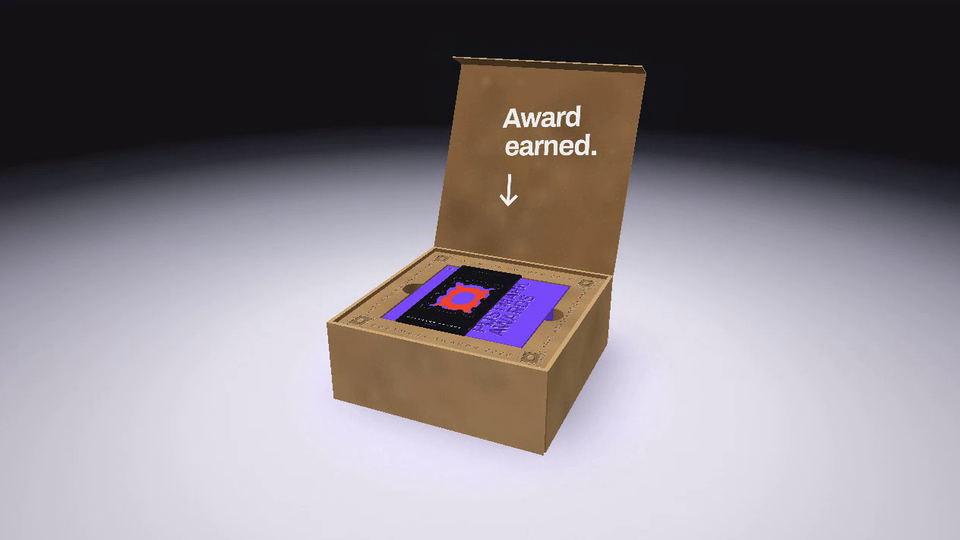
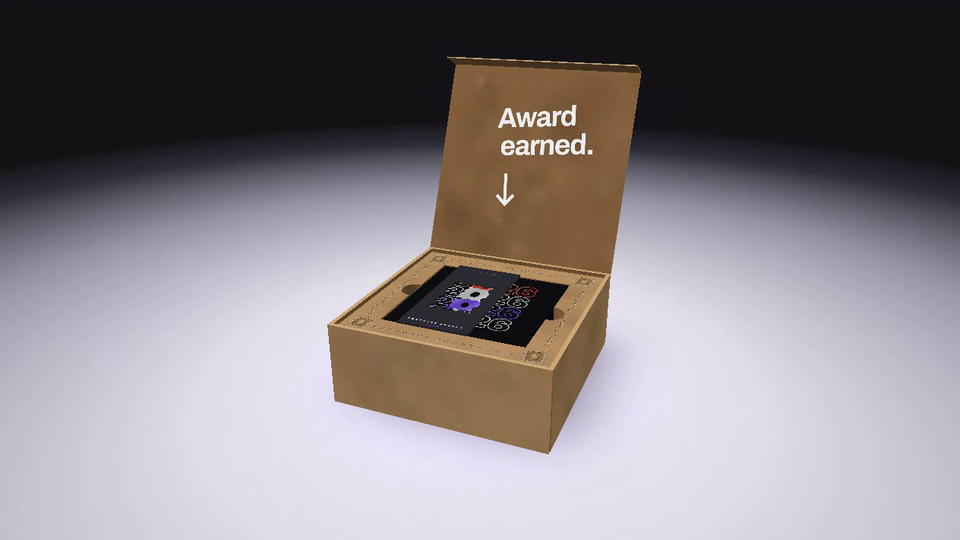
Postmark Awards Unboxing: glass porcupine award, black box with debossed foil 2026 lid, no outline around the sleeve die cut
Claude-Session: https://claude.ai/code/session_01AHeBdvvqk7JQpSQJTSRnYu

diff --git a/postmark-awards-unboxing/index.html b/postmark-awards-unboxing/index.html
@@ -79,7 +79,7 @@ const easeOut = (u) => 1 - Math.pow(1 - cl(u, 0, 1), 3);
 const ph = (P, a, b, f = ease) => f(cl((P - a) / (b - a), 0, 1));
 const reduce = matchMedia('(prefers-reduced-motion: reduce)').matches;
 const SANS = '"Archivo","Helvetica Neue",Helvetica,Arial,sans-serif', BLACKFACE = '"Archivo Black","Arial Black","Helvetica Neue",Arial,sans-serif';
-const PURPLE = [122, 75, 255], RED = [242, 68, 46], INK = [20, 20, 24];
+const PURPLE = [122, 75, 255], RED = [242, 68, 46], INK = [20, 20, 24], BOXK = [14, 14, 17], SLV = [44, 44, 51];
 const KRAFT = [186, 146, 100], KRAFT_D = [140, 103, 66], KRAFT_L = [208, 172, 124];
 
 /* ---------- tiny affine transforms: chain(A, B, C) applies C first ---------- */
@@ -102,7 +102,8 @@ let CAM = [0, 500, 1500], GLOW = { p: [0, 100, 450], k: 0 };
 const shade = (n) => Math.min(1, 0.5 + 0.58 * Math.max(0, dot(n, L1)) + 0.18 * Math.max(0, dot(n, L2)));
 
 /* ---------- per frame draw lists ---------- */
-let FLAT = [], TEXQ = [], OVF = [], OVG = [];
+let FLAT = [], TEXQ = [], OVF = [], OVG = [], GLS = [], GLT = [];
+function glassTri(M, pts, col, a) { const w = wp(M, pts), s = 0.62 + 0.38 * shade(facing(w)); GLS.push(w, col[0] * s, col[1] * s, col[2] * s, a); }
 const wp = (M, pts) => pts.map((p) => xf(M, p));
 function facing(w) { let n = nrm(crs(sub(w[1], w[0]), sub(w[2], w[0]))); if (dot(n, sub(CAM, w[0])) < 0) n = [-n[0], -n[1], -n[2]]; return n; }
 function F(M, pts, col, amt = 1) { // flat colour polygon, fan from pts[0]
@@ -181,13 +182,23 @@ const MW = 260, MH = 200, WT = 10;                 // mailer: half width/depth, 
 const INS_TOP = 190, REC_FLOOR = 96, REC_H = 175;  // debossed insert: top, recess floor, recess half size
 const BOXH = 166, LIDH = 171, BASE_H = 74, LID_BOT = 44, LID_TOP = 88; // award box: base half, lid half, heights
 const SL_T = 5, SL_XA = -130, SL_XB = 40;           // slip sleeve: thickness, x range on the box
-const AW = 0.84, AR = 105, AT = 16;                // award: stamp aspect, half height, thickness
+const AT = 14, PK = 0.29;                          // award: glass thickness, scale of the traced mascot
 const CRAD_TOP = 70, POCKET = 14;                  // black cradle inside the base, pocket depth
 
-const POCK = pocketPoly(AW, AR, 1.05, 0.26, 24), POCK_TOP = triangulate(rectPts(160, 160), POCK), POCK_FLOOR = triangulate(POCK);
+/* the brand mascot, traced (from the Postmark Awards brand visuals): body with its quills, the quill tips, and the stamps stuck on them (x, y, half width, half height, rotation, 0 purple / 1 red); y down, 1000 units wide */
+const PORC_BODY = [33,679,136,701,138,703,167,708,169,710,179,710,181,712,190,713,204,717,222,720,230,723,230,725,204,730,204,731,167,739,156,743,121,751,120,752,111,753,109,755,104,755,33,773,341,773,343,775,342,791,345,829,351,839,360,843,422,843,437,838,446,827,448,819,445,811,425,809,392,809,386,806,379,799,377,789,379,777,382,773,387,773,566,773,567,774,567,813,569,828,573,836,584,843,646,843,656,841,666,835,672,822,671,814,664,810,615,809,610,806,603,799,602,791,603,780,606,773,969,773,794,708,795,705,802,703,939,622,796,643,787,643,785,645,766,647,762,647,926,521,872,538,871,540,858,543,857,545,830,553,829,554,750,580,750,579,766,559,780,547,810,512,801,484,799,483,755,511,723,533,713,538,709,542,699,548,697,548,834,306,660,490,659,487,663,479,666,466,668,465,671,454,675,446,676,440,677,439,701,368,717,326,714,322,701,311,699,311,681,338,676,348,671,352,671,355,603,455,603,447,615,345,608,344,595,339,579,326,576,330,571,346,569,347,560,370,559,376,555,383,542,418,540,419,540,422,535,435,534,436,533,442,530,444,529,443,528,422,526,418,525,396,524,394,520,353,517,352,471,359,463,407,459,423,458,436,456,447,454,448,450,437,449,437,441,411,437,402,435,391,425,369,411,323,409,322,408,317,366,195,376,473,374,474,372,472,372,468,370,467,286,298,272,298,277,325,279,331,279,337,281,338,282,347,283,348,284,358,291,382,291,388,293,389,293,398,315,490,314,492,220,394,204,421,209,427,214,440,216,443,225,464,230,470,237,489,239,490,261,535,260,537,101,444,241,601,240,603,205,590,165,577,169,591,169,598,153,601,146,605,206,654];
+const PORC_STEMS = [[190,611,188,611,181,613,170,616,162,617,162,617,160,616,148,607,97,565,72,544,72,543,93,550,134,564,178,580,183,582,184,584,185,587,190,609],[232,408,230,413,225,421,218,434,214,440,214,440,179,369,167,343,162,334,162,332,168,338,232,406],[308,342,305,347,304,348,299,345,283,336,279,333,277,325,272,306,261,254,261,249,262,251,264,254,290,305,306,337,308,341],[522,369,520,370,473,377,468,377,468,370,489,249,498,196,501,182,503,175,504,188,507,212,521,356],[634,191,633,201,614,358,613,359,613,360,572,364,563,364,563,363,564,359,629,193,634,184],[743,250,740,259,735,274,717,326,713,338,712,338,710,337,705,332,694,323,692,322,692,321,695,317,732,261,740,249,742,248,743,248],[894,421,887,429,803,521,798,526,797,524,792,510,786,492,786,491,788,490,879,429,893,420,894,420]];
+const PORC_STAMPS = [[99,571,66,45,-0.227,0],[169,354,58,68,-1.065,1],[256,227,66,89,2.094,0],[495,294,58,65,-0.140,1],[610,260,56,86,-0.087,0],[755,263,70,53,-0.873,1],[875,444,84,59,-0.332,0]];
 const REC = recessPoly(REC_H, REC_H, 34), REC_TOP = triangulate(rectPts(250, 250), REC), REC_FLOOR_T = triangulate(REC);
 const WIN_HH = 80, WIN = stampPoly(0.7).map((p) => [p[0] * WIN_HH, p[1] * WIN_HH]), WIN_TOP = triangulate(rectPts((SL_XB - SL_XA) / 2, 173), WIN);
-const AWARD_PTS = stampPoly(AW).map((p) => [p[0] * AR, p[1] * AR]);
+const porcP = (x, y) => [(x - 501) * PK, -(y - 490) * PK];
+const pairs = (a) => { const o = []; for (let i = 0; i < a.length; i += 2) o.push(porcP(a[i], a[i + 1])); return o; };
+const BODY_P = pairs(PORC_BODY), BODY_T = triangulate(BODY_P);
+const STEM_P = PORC_STEMS.map(pairs), STEM_T = STEM_P.map((p) => triangulate(p));
+const STAMP_P = PORC_STAMPS.map(([x, y, hw, hh, rot, c]) => { const cs = Math.cos(rot), sn = Math.sin(rot), p = stampPoly(hw / hh, 0.62, 0.12, 4).map(([px, py]) => { const X = px * hh, Y = -py * hh; return porcP(x + X * cs - Y * sn, y + X * sn + Y * cs); }); return { p, t: triangulate(p), c: c ? RED : PURPLE }; });
+const ellipseP = (cx, cy, rx, ry) => Array.from({ length: 28 }, (_, i) => porcP(cx + rx * Math.cos(TAU * i / 28), cy + ry * Math.sin(TAU * i / 28)));
+const EYE_P = ellipseP(648, 692, 98, 38), PUPIL_P = ellipseP(673, 707, 24, 15);
+const POCK = BODY_P.map((p) => [p[0] * 1.045, p[1] * 1.045]), POCK_TOP = triangulate(rectPts(160, 160), POCK), POCK_FLOOR = triangulate(POCK);
 
 /* ============================================================================================
    Textures: flat colour, a little grain, tone on tone deboss. Built once with the brand fonts.
@@ -235,7 +246,7 @@ function arcText(c, str, cx, cy, r, a0, spacing) { c.save(); c.translate(cx, cy)
 function buildTextures() {
   /* kraft: outside, inside (darker, corrugation showing), the mailer lid underside with its printed message */
   T.kraft = kraftTex(1024, 1024, KRAFT, 11, 0); T.kraftD = kraftTex(1024, 1024, KRAFT_D, 12, 0);
-  T.purpleSide = flatTex(512, 128, PURPLE, 3, 900); T.ink = flatTex(128, 128, INK, 5, 800);
+  T.purpleSide = flatTex(512, 128, BOXK, 3, 1100); T.ink = flatTex(128, 128, INK, 5, 800);
 
   { // mailer lid, outside: kraft with a worn black postmark and a stamp sticker
     const g = kraftTex(1024, 1024, KRAFT, 21, 0), c = g.drawingContext, r = rng(9);
@@ -267,24 +278,28 @@ function buildTextures() {
     };
     deboss(c, W, W, shape, 3, 1.15); T.insert = g;
   }
-  { // award box lid: purple card, tone on tone deboss, red ring stamp that sits in the sleeve window
-    const W = 1026, S = 3, g = G(W, W), c = g.drawingContext, px = (x) => (x + 171) * S, pz = (z) => (z + 171) * S;
-    c.fillStyle = 'rgb(' + PURPLE + ')'; c.fillRect(0, 0, W, W); grain(c, W, W, 9000, 7, 0.09);
-    ringShape(c, px(-45), pz(0), 66 * S, '#F2442E', 0.7, 1.3);
-    const shape = (ctx, col) => {
-      ctx.save(); ctx.translate(px(105), pz(0)); ctx.rotate(-PI / 2); ctx.translate(-pz(0) + 0, 0);
-      ctx.restore();
-      ctx.save(); ctx.translate(px(108), pz(0) + 0); ctx.rotate(-PI / 2); // text reads upward along the right strip, like the reference
-      const fit = 292 * S; ctx.translate(-fit / 2, -34 * S); logoBlock(ctx, 0, 0, fit, col); ctx.restore();
-      ctx.fillStyle = col; ctx.font = '700 ' + 13 * S + 'px ' + SANS; ctx.letterSpacing = '1px'; ctx.textBaseline = 'alphabetic'; ctx.fillText('2026', px(-166), pz(-150));
-    };
-    deboss(c, W, W, shape, 3, 1.4); T.lid = g;
+  { // award box lid: soft black card with the stacked 2026 debossed into it, the outlines and the stamp zeros in metallic foil
+    const W = 1026, k = W / 1000, g = G(W, W), c = g.drawingContext, ch = 186 * k, y0 = (W - ch * 4) / 2, GAP = 12 * k, ZW = 196 * k, DIG = ['2', '0', '2', '6'];
+    const FOIL = [[242, 68, 46], [232, 232, 240], [122, 75, 255], [232, 232, 240]], TILT = [-0.2, 0.15, -0.1, 0.22], KINDS = [[0.84, 1], [1, 1], [1, 0.86], [0.7, 1]];
+    c.fillStyle = 'rgb(' + BOXK + ')'; c.fillRect(0, 0, W, W); grain(c, W, W, 9000, 7, 0.05);
+    c.font = '400 ' + 240 * k + 'px ' + BLACKFACE;
+    const ws = DIG.map((d) => { if (d === '0') return ZW; const m = c.measureText(d); return m.actualBoundingBoxLeft + m.actualBoundingBoxRight; }), xs = []; let acc = (W - (ws.reduce((a, b) => a + b, 0) + GAP * 3)) / 2; ws.forEach((w) => { xs.push(acc + w / 2); acc += w + GAP; });
+    const row = (ctx, r, col) => { const cy = y0 + r * ch + ch / 2; ctx.font = '400 ' + 240 * k + 'px ' + BLACKFACE; ctx.lineWidth = 8 * k; ctx.lineJoin = 'round'; ctx.strokeStyle = ctx.fillStyle = col;
+      DIG.forEach((d, i) => { if (d === '0') { const [aw, ah] = KINDS[r]; ringShape(ctx, xs[i], cy, 104 * k * ah, col, aw / ah, 1, TILT[r]); } else { const mm = ctx.measureText(d), w = mm.actualBoundingBoxLeft + mm.actualBoundingBoxRight, h = mm.actualBoundingBoxAscent; ctx.strokeText(d, xs[i] - w / 2 + mm.actualBoundingBoxLeft, cy + h / 2); } }); };
+    deboss(c, W, W, (ctx, col) => { for (let r = 0; r < 4; r++) row(ctx, r, col); }, 3, 1.9);
+    for (let r = 0; r < 4; r++) { // foil: the row's colour with bands of light and dark across it, so it reads as metal
+      const rc = cv2(W, W), rx = rc.getContext('2d'), fc = FOIL[r]; row(rx, r, 'rgb(' + fc + ')'); rx.globalCompositeOperation = 'source-atop';
+      const top = y0 + r * ch, gr = rx.createLinearGradient(W * 0.1, top - ch * 0.4, W * 0.9, top + ch * 1.4);
+      [[0, 'rgba(0,0,0,.42)'], [0.22, 'rgba(255,255,255,.62)'], [0.4, 'rgba(0,0,0,.25)'], [0.58, 'rgba(255,255,255,.5)'], [0.78, 'rgba(0,0,0,.3)'], [1, 'rgba(255,255,255,.35)']].forEach(([p, col]) => gr.addColorStop(p, col));
+      rx.fillStyle = gr; rx.fillRect(0, 0, W, W); const rg = rng(31 + r); for (let i = 0; i < 1500; i++) { rx.fillStyle = rg() < 0.5 ? 'rgba(255,255,255,.35)' : 'rgba(0,0,0,.3)'; rx.fillRect(rg() * W, top + rg() * ch, 1 + rg() * 2, 1); }
+      c.drawImage(rc, 0, 0); }
+    T.lid = g;
   }
   { // slip sleeve: matte black die-cut card. The window is a real hole; the deboss frames it
     const w = 512, h = 1040, S = 3, g = G(w, h), c = g.drawingContext;
-    c.fillStyle = 'rgb(' + INK + ')'; c.fillRect(0, 0, w, h); grain(c, w, h, 2200, 17, 0.035);
+    c.fillStyle = 'rgb(' + SLV + ')'; c.fillRect(0, 0, w, h); grain(c, w, h, 2200, 17, 0.035);
     const cx = 85 * S, cz = 173 * S, shape = (ctx, col) => {
-      ctx.strokeStyle = col; ctx.fillStyle = col; ctx.lineWidth = 3.2; ctx.beginPath(); stampPath(ctx, stampPoly(0.7), cx, cz, 96 * S); ctx.stroke();
+      ctx.fillStyle = col;
       ctx.font = '700 ' + 6.5 * S + 'px ' + SANS; ctx.letterSpacing = 3 * S + 'px'; ctx.textAlign = 'center'; ctx.fillText('SLIDE TO OPEN', cx, 24 * S); ctx.fillText('←', cx, 38 * S);
     };
     deboss(c, w, h, shape, 2.2, 1.1);
@@ -293,21 +308,13 @@ function buildTextures() {
   }
   { // sleeve front: printed white, with the stamp O in red
     const w = 512, h = 300, g = G(w, h), c = g.drawingContext;
-    c.fillStyle = 'rgb(' + INK + ')'; c.fillRect(0, 0, w, h); grain(c, w, h, 1200, 19, 0.035);
+    c.fillStyle = 'rgb(' + SLV + ')'; c.fillRect(0, 0, w, h); grain(c, w, h, 1200, 19, 0.035);
     c.fillStyle = '#fff'; logoBlock(c, 42, 144, w - 84, '#fff'); ringShape(c, 456, 54, 22, '#F2442E', 0.84, 1.2);
     c.fillStyle = '#7A4BFF'; c.font = '700 40px ' + SANS; c.letterSpacing = '2px'; c.fillText('2026', 42, 244);
     T.sleeveFront = g;
   }
-  { // the award: white stamp, red O, black wordmark, purple year, acrylic gloss
-    const w = 424, h = 504, g = G(w, h), c = g.drawingContext, cx = w / 2;
-    c.fillStyle = '#F7F4EE'; c.fillRect(0, 0, w, h); grain(c, w, h, 2200, 23, 0.04);
-    c.strokeStyle = '#0B0B0B'; c.lineWidth = 3; c.beginPath(); stampPath(c, stampPoly(0.84).map((p) => [p[0] * 0.9, p[1] * 0.9]), cx, h / 2, h / 2 - 2); c.stroke();
-    ringShape(c, cx, 190, 100, '#F2442E', 0.84, 1.18);
-    c.fillStyle = '#0B0B0B'; c.font = '700 60px ' + SANS; c.letterSpacing = '-2px'; c.textAlign = 'center'; c.fillText('POSTMARK', cx, 366); c.fillText('AWARDS', cx, 424);
-    c.fillStyle = '#7A4BFF'; c.font = '400 38px ' + BLACKFACE; c.letterSpacing = '4px'; c.fillText('2026', cx, 472);
-    const gl = c.createLinearGradient(0, 0, w, h * 0.7); gl.addColorStop(0, 'rgba(255,255,255,.55)'); gl.addColorStop(0.32, 'rgba(255,255,255,.12)'); gl.addColorStop(0.34, 'rgba(255,255,255,0)'); c.fillStyle = gl; c.fillRect(0, 0, w, h);
-    T.award = g;
-  }
+  { const g = G(256, 256), c = g.drawingContext, gr = c.createLinearGradient(0, 0, 256, 190);
+    [[0, 0], [0.18, 0], [0.26, 0.5], [0.34, 0], [0.46, 0], [0.5, 0.22], [0.56, 0], [1, 0]].forEach(([p, a]) => gr.addColorStop(p, 'rgba(255,255,255,' + a + ')')); c.fillStyle = gr; c.fillRect(0, 0, 256, 256); T.shine = g; }
   /* light: soft shadows, glows, a four point sparkle, the studio floor */
   const radial = (s, rgb, aIn, aOut, pw = 1.6) => { const g = G(s, s), c = g.drawingContext; for (let r = s / 2; r > 0; r -= 1) { const k = 1 - r / (s / 2); c.fillStyle = 'rgba(' + rgb + ',' + (aOut + (aIn - aOut) * Math.pow(k, pw)) / 255 + ')'; c.beginPath(); c.arc(s / 2, s / 2, r, 0, TAU); c.fill(); } return g; };
   T.shRad = radial(256, '0,0,0', 255, 0, 1.3); T.halo = radial(256, '170,120,255', 255, 0, 1.6); T.haloW = radial(256, '255,255,255', 255, 0, 2.2);
@@ -332,7 +339,7 @@ function pose(P) {
   o.sx = SLIDE * ph(P, 0.54, 0.64);
   const lift = ph(P, 0.62, 0.72), side = ph(P, 0.68, 0.80), down = ph(P, 0.78, 0.90);
   o.lx = LID_X * side; o.ly = 200 * lift - 249 * down; o.lt = 0.3 * Math.sin(PI * ph(P, 0.62, 0.92)) * (side > 0 ? 1 : 0.4);
-  o.up = ph(P, 0.70, 0.88); o.tilt = ph(P, 0.74, 0.90) * 62 * PI / 180; o.hold = ph(P, 0.88, 1.0);
+  o.up = ph(P, 0.70, 0.88); o.tilt = ph(P, 0.74, 0.90) * 72 * PI / 180; o.hold = ph(P, 0.88, 1.0);
   return o;
 }
 let clock = 0, userAngle = 0, userElev = 0, userZoom = 0, lastInput = -99;
@@ -347,7 +354,7 @@ const STAGES = [['01', 'The mailer', 0.0], ['02', 'Lid opens', 0.15], ['03', 'Bo
 
 function drawScene(P, t) {
   const o = pose(P), BM = TR(o.bx, o.by, o.bz);
-  FLAT = []; TEXQ = []; OVF = []; OVG = [];
+  FLAT = []; TEXQ = []; OVF = []; OVG = []; GLS = []; GLT = [];
   const awardCenter = xf(chain(BM, TR(0, CRAD_TOP - POCKET + AT / 2 + 270 * o.up, 0)), [0, 0, 0]);
   GLOW = { p: [awardCenter[0], awardCenter[1], awardCenter[2]], k: 0.9 * o.up * (0.88 + 0.12 * Math.sin(t * 2)) };
 
@@ -385,38 +392,50 @@ function drawScene(P, t) {
   }
 
   /* ----- the award box ----- */
-  const purple = TX(T.purpleSide, 0, 0, 1, 1), base = (x0, z0, x1, z1, outer, inner) => cub(BM, x0, 0, z0, x1, BASE_H, z1, { [outer]: purple, [inner]: INK, py: PURPLE });
+  const purple = TX(T.purpleSide, 0, 0, 1, 1), base = (x0, z0, x1, z1, outer, inner) => cub(BM, x0, 0, z0, x1, BASE_H, z1, { [outer]: purple, [inner]: INK, py: [34, 34, 40] });
   base(-BOXH, BOXH - 6, BOXH, BOXH, 'pz', 'nz'); base(-BOXH, -BOXH, BOXH, -BOXH + 6, 'nz', 'pz'); base(-BOXH, -BOXH + 6, -BOXH + 6, BOXH - 6, 'nx', 'px'); base(BOXH - 6, -BOXH + 6, BOXH, BOXH - 6, 'px', 'nx');
   { // black cradle: a real pocket in the shape of the award, with a thumb scoop; the ribbon pull lies under the award
     const top = CRAD_TOP, fl = CRAD_TOP - POCKET, pt = (p, y) => [p[0], y, -p[1]];
     POCK_TOP.forEach((t) => F(BM, t.map((p) => pt(p, top)), INK, 1));
     POCK.forEach((q, k) => { const n = POCK[(k + 1) % POCK.length]; F(BM, [pt(q, top), pt(n, top), pt(n, fl), pt(q, fl)], [74, 68, 92]); });
     POCK_FLOOR.forEach((t) => F(BM, t.map((p) => pt(p, fl)), [40, 37, 52]));
-    const rz = POCK[0] && AR * 1.05 + 24, rs = fl + 0.5, ay = fl + 0.4;  // ribbon: flat under the award, up out of the scoop, then along the cradle
-    F(BM, [[-16, ay + 0.6, -40], [16, ay + 0.6, -40], [16, ay + 0.6, rz - 18], [0, ay + 0.6, rz - 36], [-16, ay + 0.6, rz - 18]], RED);   // pull tab with a swallow tail
+    const ay = fl + 0.4;  // red pull tab on the pocket floor, between the legs, visible through the glass
+    F(BM, [[-9, ay + 0.6, -60], [13, ay + 0.6, -60], [13, ay + 0.6, 62], [2, ay + 0.6, 50], [-9, ay + 0.6, 62]], RED);
   }
-  { // award, extruded stamp
-    const AM = chain(BM, TR(0, CRAD_TOP - POCKET + AT / 2 + 270 * o.up, 0), RY(0.4 * Math.sin(t * 0.8) * o.hold + 0.5 * o.up * (1 - o.hold) * 0 ), RX(o.tilt));
-    const toW = (p, y) => [p[0], y, -p[1]], n = AWARD_PTS.length;
-    const fan = (y, back) => { const pts = [[0, y, 0]].concat(AWARD_PTS.map((p) => toW(p, y))).concat([toW(AWARD_PTS[0], y)]); if (back) F(AM, pts, [24, 24, 30]); else QT(AM, pts, [[0.5, 0.5]].concat(AWARD_PTS.map((p) => [0.5 + p[0] / (2 * AW * AR), 0.5 - p[1] / (2 * AR)])).concat([[0.5 + AWARD_PTS[0][0] / (2 * AW * AR), 0.5 - AWARD_PTS[0][1] / (2 * AR)]]), T.award); };
-    fan(AT / 2, false); fan(-AT / 2, true);
-    for (let i = 0; i < n; i++) { const a = AWARD_PTS[i], b = AWARD_PTS[(i + 1) % n]; F(AM, [toW(a, AT / 2), toW(b, AT / 2), toW(b, -AT / 2), toW(a, -AT / 2)], [240, 238, 232]); }
+  { // the award: the brand mascot in glass. Clear body, tinted glass stamps on the quill tips, a white eye; drawn in the glass pass
+    const AM = chain(BM, TR(0, CRAD_TOP - POCKET + AT / 2 + 270 * o.up, 0), RY(0.4 * Math.sin(t * 0.8) * o.hold), RX(o.tilt));
+    const C0 = xf(AM, [0, 0, 0]), upN = nrm([AM.r[1], AM.r[4], AM.r[7]]), topNear = dot(upN, sub(CAM, C0)) > 0, toW = (p, y) => [p[0], y, -p[1]];
+    const solid = (tris, ring, y0, y1, col, aF, aS) => {
+      const lite = col.map((v) => Math.min(255, v + 45)), face = (y) => tris.forEach((tr) => glassTri(AM, tr.map((p) => toW(p, y)), col, aF));
+      const sides = () => ring.forEach((a, i) => { const b = ring[(i + 1) % ring.length], q = [toW(a, y1), toW(b, y1), toW(b, y0), toW(a, y0)]; glassTri(AM, [q[0], q[1], q[2]], lite, aS); glassTri(AM, [q[0], q[2], q[3]], lite, aS); });
+      if (topNear) { face(y0); sides(); face(y1); } else { face(y1); sides(); face(y0); }
+    };
+    solid(BODY_T, BODY_P, -AT / 2, AT / 2, [170, 210, 255], 0.4, 0.85);
+    STEM_T.forEach((tr, i) => solid(tr, STEM_P[i], -AT / 2, AT / 2, [170, 210, 255], 0.4, 0.85));
+    STAMP_P.forEach((sp) => solid(sp.t, sp.p, 0, AT / 2 + 5, sp.c, 0.72, 0.95));
+    const fan = (P, y, col) => F(AM, [[0, y, 0]].concat(P.map((p) => toW(p, y))).concat([toW(P[0], y)]), col, 1.25);
+    const ctr = (P) => [P.reduce((a, p) => a + p[0], 0) / P.length, P.reduce((a, p) => a + p[1], 0) / P.length];
+    { const e = ctr(EYE_P), pu = ctr(PUPIL_P); F(AM, [[e[0], AT / 2 + 0.4, -e[1]]].concat(EYE_P.map((p) => toW(p, AT / 2 + 0.4))).concat([toW(EYE_P[0], AT / 2 + 0.4)]), [250, 250, 250], 1.2);
+      F(AM, [[pu[0], AT / 2 + 0.8, -pu[1]]].concat(PUPIL_P.map((p) => toW(p, AT / 2 + 0.8))).concat([toW(PUPIL_P[0], AT / 2 + 0.8)]), INK, 1.2); }
+    // a diagonal streak of light across the near face
+    const yS = topNear ? AT / 2 + 0.1 : -AT / 2 - 0.1;
+    GLT.push({ tex: T.shine, a: 200, tris: BODY_T.flatMap((tr) => tr.map((p) => [xf(AM, toW(p, yS)), [0.5 + p[0] / 300, 0.5 - p[1] / 220]])) });
   }
   { // lid
     const LM = chain(BM, TR(o.lx, o.ly, 0), RZ(o.lt)), tp = LID_TOP, t0 = tp - 3;
     cub(LM, -LIDH, t0, -LIDH, LIDH, tp, LIDH, { py: TX(T.lid, 0, 0, 1, 1), ny: INK, px: purple, nx: purple, pz: purple, nz: purple });
-    const sk = (x0, z0, x1, z1, outer, inner) => cub(LM, x0, LID_BOT, z0, x1, t0, z1, { [outer]: purple, [inner]: [74, 44, 160] });
+    const sk = (x0, z0, x1, z1, outer, inner) => cub(LM, x0, LID_BOT, z0, x1, t0, z1, { [outer]: purple, [inner]: [26, 26, 30] });
     sk(-LIDH, LIDH - 3, LIDH, LIDH, 'pz', 'nz'); sk(-LIDH, -LIDH, LIDH, -LIDH + 3, 'nz', 'pz'); sk(-LIDH, -LIDH + 3, -LIDH + 3, LIDH - 3, 'nx', 'px'); sk(LIDH - 3, -LIDH + 3, LIDH, LIDH - 3, 'px', 'nx');
   }
   { // slip sleeve: black die-cut card loop around the middle of the box, with a stamp shaped window
     const SM = chain(BM, TR(o.sx, 0, 0)), xa = SL_XA, xb = SL_XB, yb = LID_TOP + 1, yt = yb + SL_T, zi = LIDH + 1, zo = zi + SL_T, hw = (xb - xa) / 2, cx = (xa + xb) / 2;
     const tris = []; WIN_TOP.forEach((t) => t.forEach((p) => tris.push([[cx + p[0], yt, -p[1]], [(p[0] + hw) / (2 * hw), (-p[1] + 173) / 346]])));
     TEXQ.push({ tex: T.sleeveTop, s: shade([0, 1, 0]), tris: tris.map(([p, uv]) => [xf(SM, p), uv]) });
-    WIN.forEach((q, k) => { const n = WIN[(k + 1) % WIN.length]; F(SM, [[cx + q[0], yt, -q[1]], [cx + n[0], yt, -n[1]], [cx + n[0], yb, -n[1]], [cx + q[0], yb, -q[1]]], [36, 36, 42]); });
-    cub(SM, xa, -SL_T, -zo, xb, 0, zo, { py: INK, ny: INK });
-    cub(SM, xa, -SL_T, zi, xb, yt, zo, { pz: TX(T.sleeveFront, 0, 0, 1, 1), nz: INK, py: INK });
-    cub(SM, xa, -SL_T, -zo, xb, yt, -zi, { nz: INK, pz: INK, py: INK });
-    cub(SM, xa, -SL_T, -zo, xa, yt, zo, { nx: [40, 40, 48] }); cub(SM, xb, -SL_T, -zo, xb, yt, zo, { px: [40, 40, 48] });
+    WIN.forEach((q, k) => { const n = WIN[(k + 1) % WIN.length]; F(SM, [[cx + q[0], yt, -q[1]], [cx + n[0], yt, -n[1]], [cx + n[0], yb, -n[1]], [cx + q[0], yb, -q[1]]], [52, 52, 60]); });
+    cub(SM, xa, -SL_T, -zo, xb, 0, zo, { py: SLV, ny: SLV });
+    cub(SM, xa, -SL_T, zi, xb, yt, zo, { pz: TX(T.sleeveFront, 0, 0, 1, 1), nz: SLV, py: SLV });
+    cub(SM, xa, -SL_T, -zo, xb, yt, -zi, { nz: SLV, pz: SLV, py: SLV });
+    cub(SM, xa, -SL_T, -zo, xa, yt, zo, { nx: [58, 58, 66] }); cub(SM, xb, -SL_T, -zo, xb, yt, zo, { px: [58, 58, 66] });
   }
   /* sparkles and the award's own light, after the solid scene */
   if (o.up > 0.05) {
@@ -451,6 +470,12 @@ function triFlush() {
   for (let i = 0; i < FLAT.length; i += 6) { fill(FLAT[i + 3], FLAT[i + 4], FLAT[i + 5]); const a = FLAT[i], b = FLAT[i + 1], c = FLAT[i + 2]; vertex(a[0], -a[1], a[2]); vertex(b[0], -b[1], b[2]); vertex(c[0], -c[1], c[2]); }
   endShape();
 }
+function glassDraw() {
+  const gl = drawingContext; gl.depthMask(false);
+  if (GLS.length) { beginShape(TRIANGLES); for (let i = 0; i < GLS.length; i += 5) { const w = GLS[i]; fill(GLS[i + 1], GLS[i + 2], GLS[i + 3], GLS[i + 4] * 255); for (const p of w) vertex(p[0], -p[1], p[2]); } endShape(); }
+  for (const q of GLT) { texture(q.tex); tint(255, 255, 255, q.a); beginShape(TRIANGLES); for (const [p, uv] of q.tris) vertex(p[0], -p[1], p[2], uv[0], uv[1]); endShape(); }
+  tint(255, 255, 255, 255); gl.depthMask(true);
+}
 function ovDraw(list, additive) {
   const gl = drawingContext; gl.depthMask(false); if (additive) blendMode(ADD);
   for (const q of list) { texture(q.tex); tint(q.rgb[0], q.rgb[1], q.rgb[2], q.a); beginShape(TRIANGLES); const c = q.c, uv = [[0, 0], [1, 0], [1, 1], [0, 1]]; for (const i of [0, 1, 2, 0, 2, 3]) vertex(c[i][0], -c[i][1], c[i][2], uv[i][0], uv[i][1]); endShape(); }
@@ -482,7 +507,8 @@ function draw() {
   triFlush();
   for (const q of TEXQ) { texture(q.tex); const v = Math.min(255, 255 * q.s); tint(v, v, v); beginShape(TRIANGLES); for (const [p, uv] of q.tris) vertex(p[0], -p[1], p[2], uv[0], uv[1]); endShape(); }
   tint(255, 255, 255, 255);
-  ovDraw(OVG.filter((q) => true), true);
+  glassDraw();
+  ovDraw(OVG, true);
   if (wantSave) { wantSave = false; drawingContext.canvas.toBlob((bl) => { const a = document.createElement('a'); a.href = URL.createObjectURL(bl); a.download = 'postmark-awards-unboxing.png'; document.body.appendChild(a); a.click(); setTimeout(() => { a.remove(); URL.revokeObjectURL(a.href); }, 4000); }, 'image/png'); }
   uiTick(P);
 }
